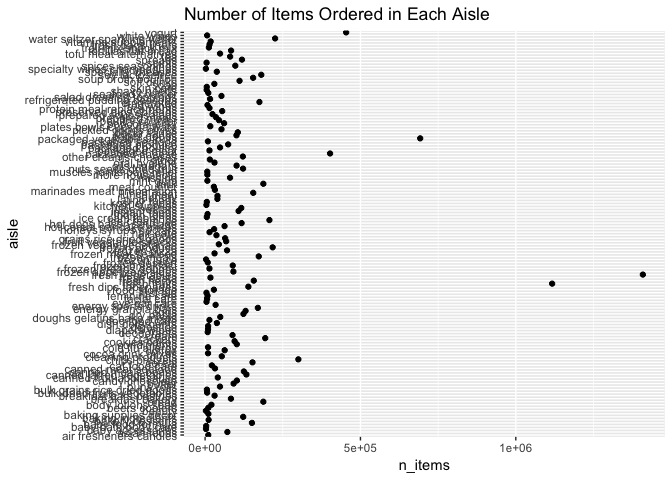
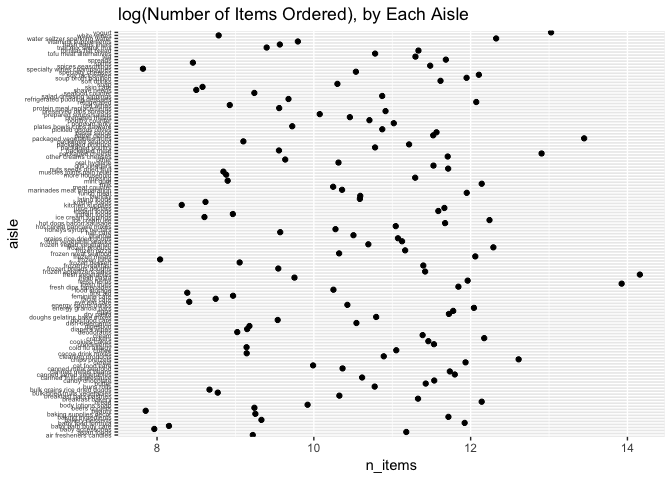
Made graphs neater at office hours

diff --git a/p8105_hw3_slb2240.md b/p8105_hw3_slb2240.md
@@ -105,7 +105,8 @@ ggplot(brfss_location_state_prop, aes(x = year, y = proportion_response, color =
   geom_line() +
   facet_grid(~response) +
   scale_color_viridis(name = "State",
-    discrete = TRUE)
+    discrete = TRUE) +
+  theme(axis.text.x = element_text(angle = 45))
 ```
 
 ![](p8105_hw3_slb2240_files/figure-markdown_github/unnamed-chunk-5-1.png)
@@ -206,16 +207,20 @@ most_freq_aisle = instacart %>%
 no_items_by_aisle = instacart %>%
   select(aisle, add_to_cart_order) %>% 
   group_by(aisle) %>% 
-  summarize(n_items = sum(add_to_cart_order))
+  summarize(n_items = log(sum(add_to_cart_order)))
 
 ggplot(no_items_by_aisle, aes(x = n_items, y = aisle)) +
   geom_point() +
   labs(
-    title = "Number of Items Ordered in Each Aisle"
-  )
+    title = "log(Number of Items Ordered), by Each Aisle",
+    xlab = "log(number of items"
+  ) +
+  theme(axis.text.y = element_text(size = 5))
 ```
 
 ![](p8105_hw3_slb2240_files/figure-markdown_github/unnamed-chunk-12-1.png)
+
+axis.text.y = element\_text(size = 7)
 
 **Make a table showing the most popular item in each of the aisles “baking ingredients”, “dog food care”, and “packaged vegetables fruits.”**
 
